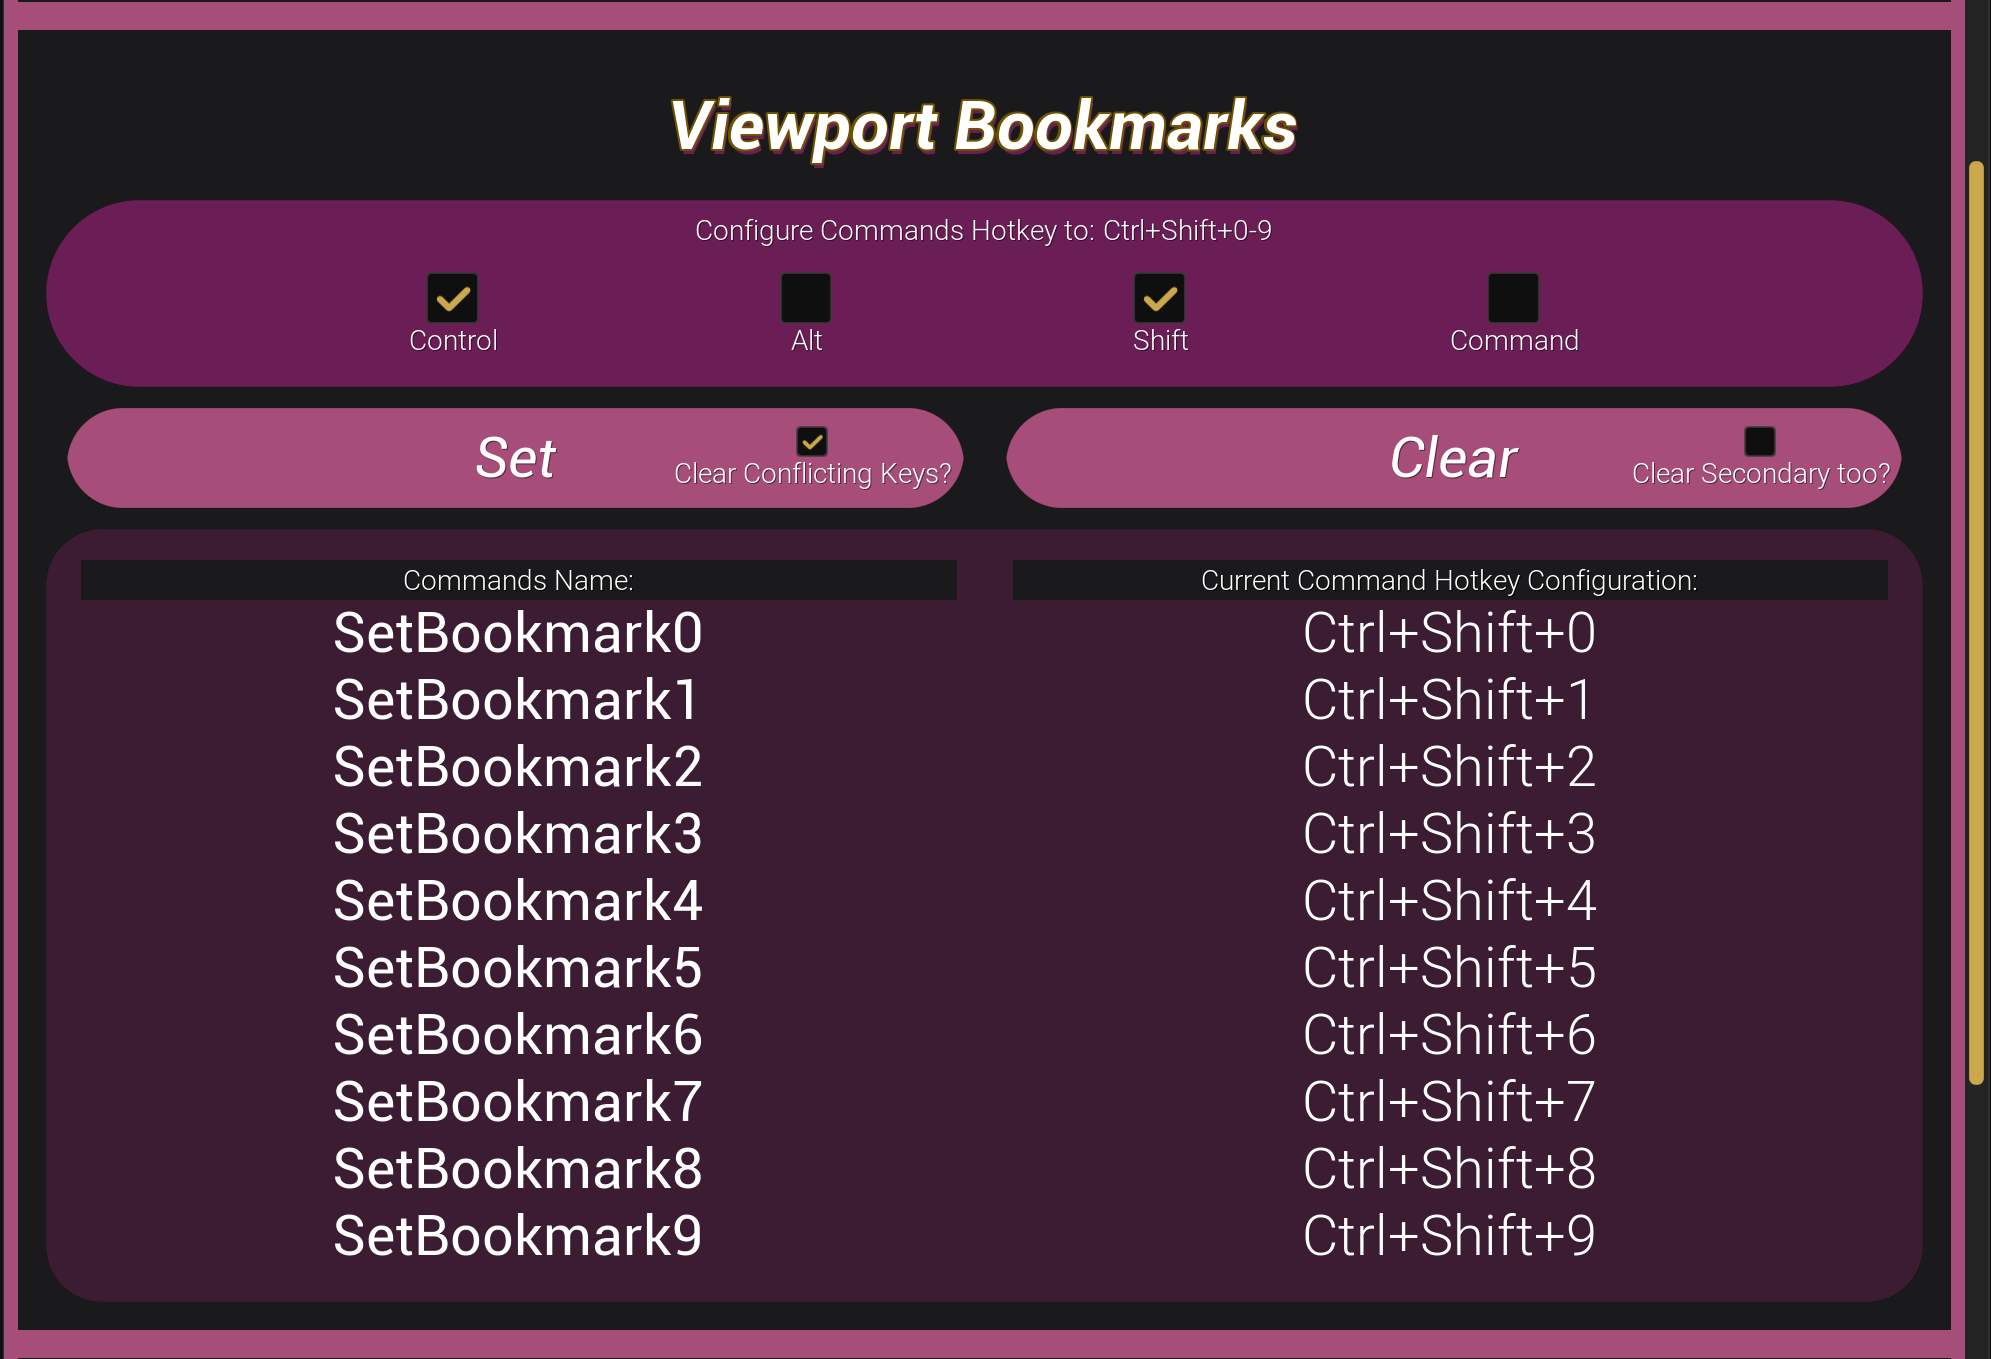
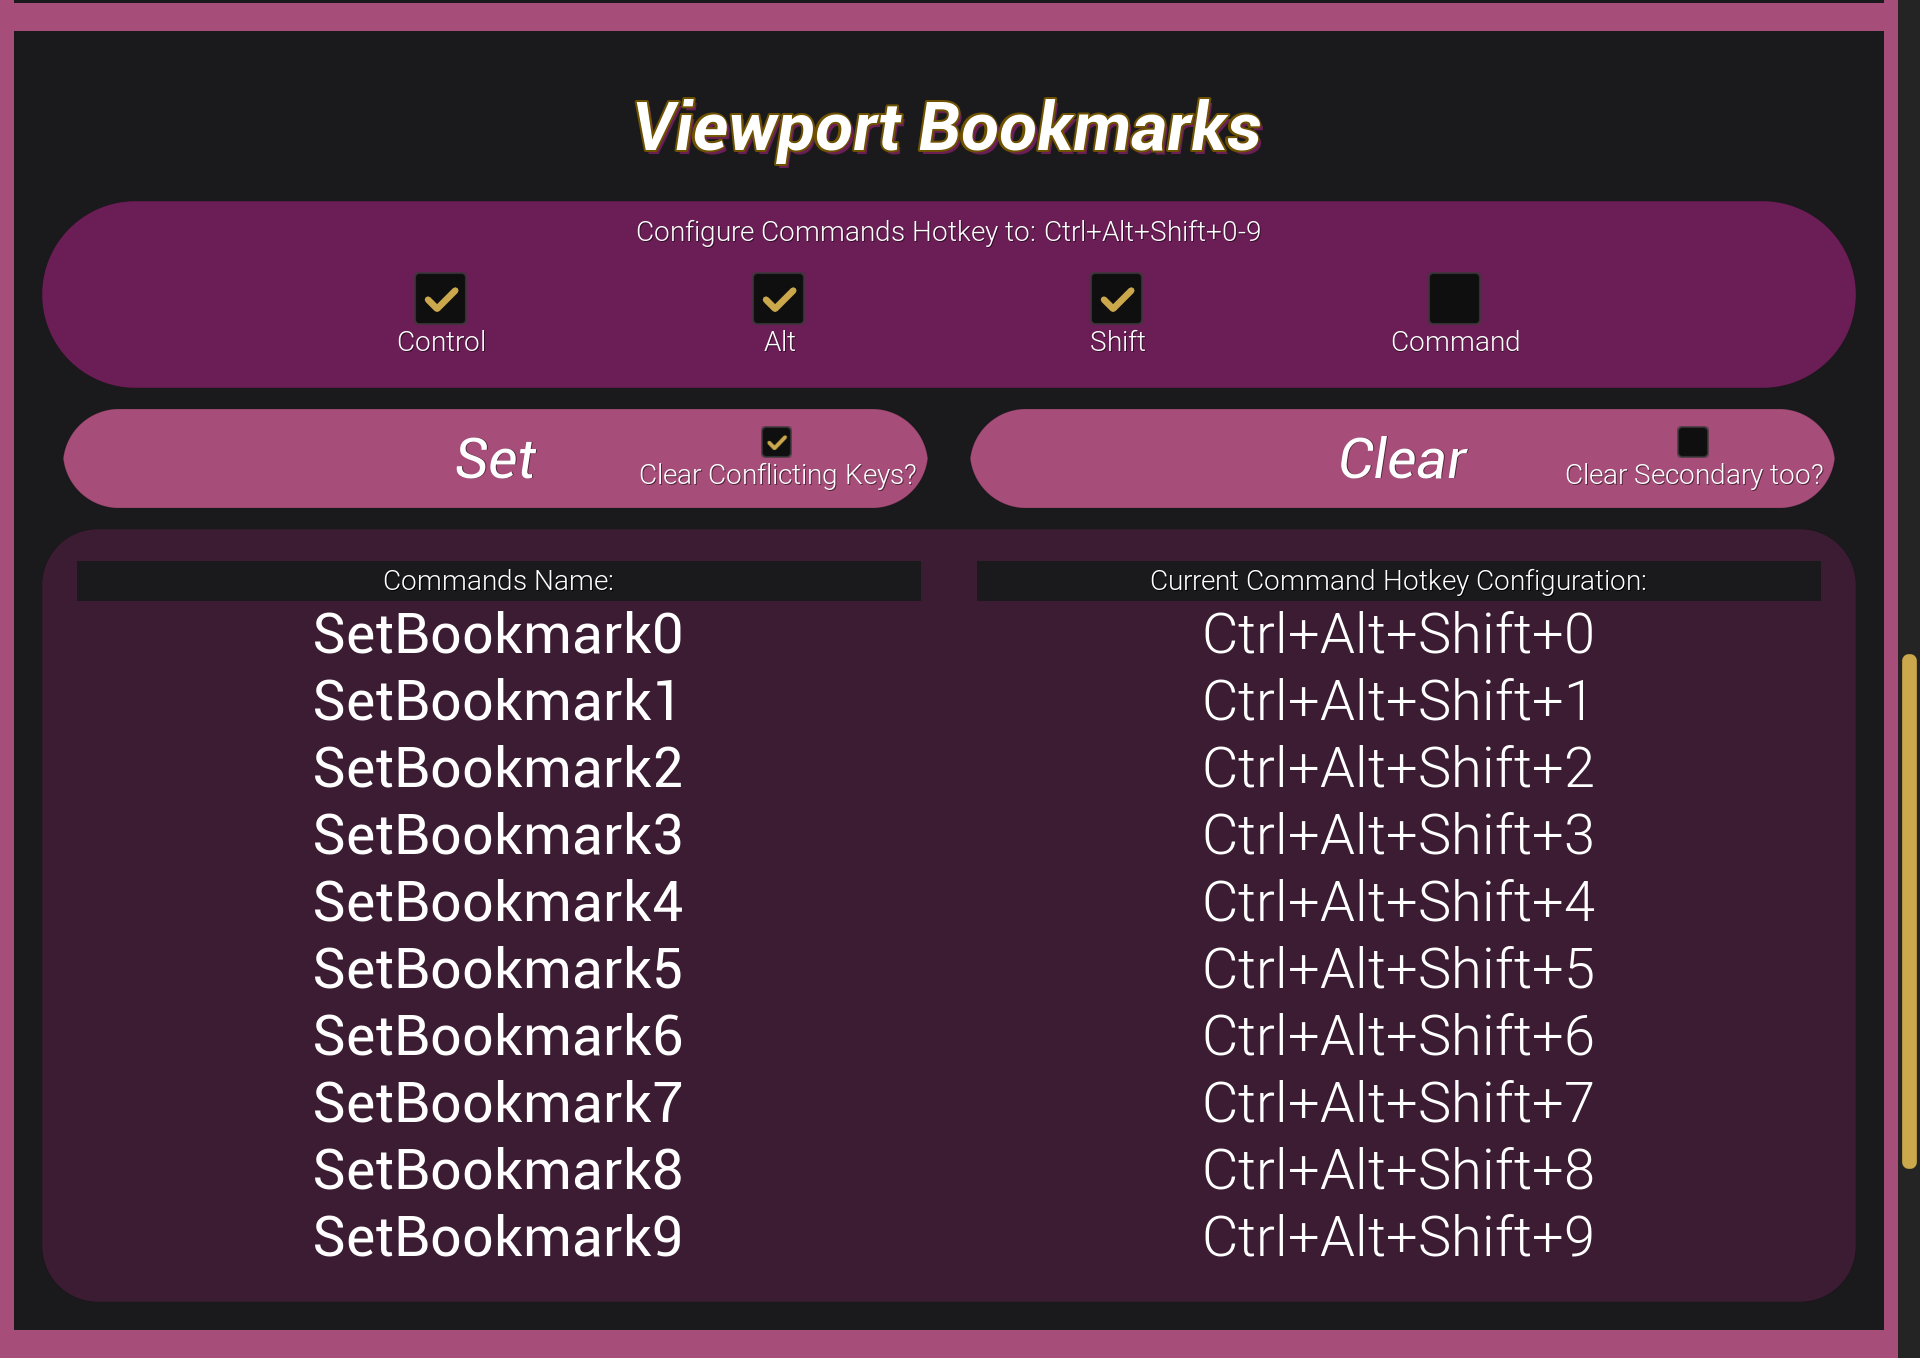
Update Utility Widget pictures to the latest update and updated README to reference them properly.

diff --git a/README.md b/README.md
@@ -11,8 +11,10 @@ The plugin is designed to work alongside existing Unreal Engine shortcuts:
 Type in the search bar "Focus Tab" and you should see the custom tab commands you can customize.
 
 ### Editor Utility Widget ⚡
-![EUW1](Docs/euw-hotkey-assist-tab-nav.png)
-![EUW2](Docs/euw-hotkey-assist-viewport-bookmarks.png)
+![EUW1](Docs/euw-hotkey-assist-major-tab-nav.png)
+![EUW2](Docs/euw-hotkey-assist-minor-tab-nav.png)
+![EUW3](Docs/euw-hotkey-assist-viewport-bookmarks.png)
+![EUW4](Docs/euw-hotkey-assist-graph-bookmarks.png)
 Since some users (muah) might prefer to move their bookmarks to `Ctrl + Alt + Shift + 0-9`, I've included a Editor Utility Widget that lets you:
 - Easily clear and Auto-Setup Hotkeys to the recommened or any configuration you like quickly and easily!
 - Have a quick overview of the currently set configuration and hotkeys.
